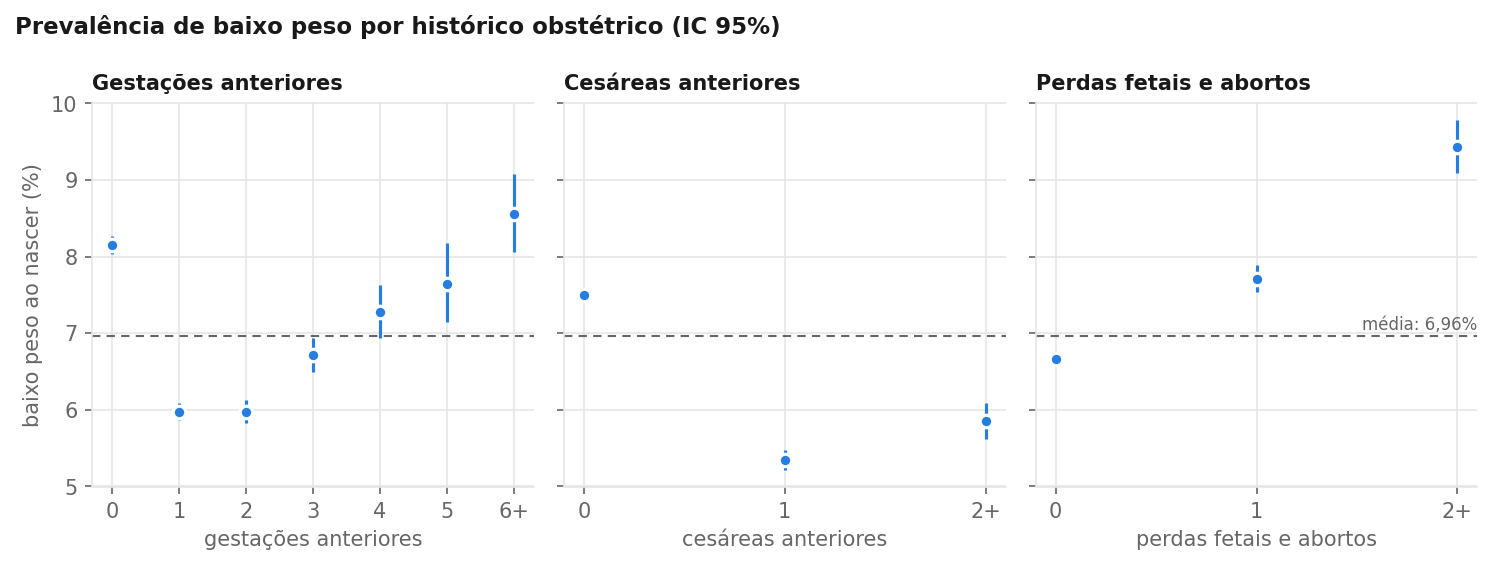
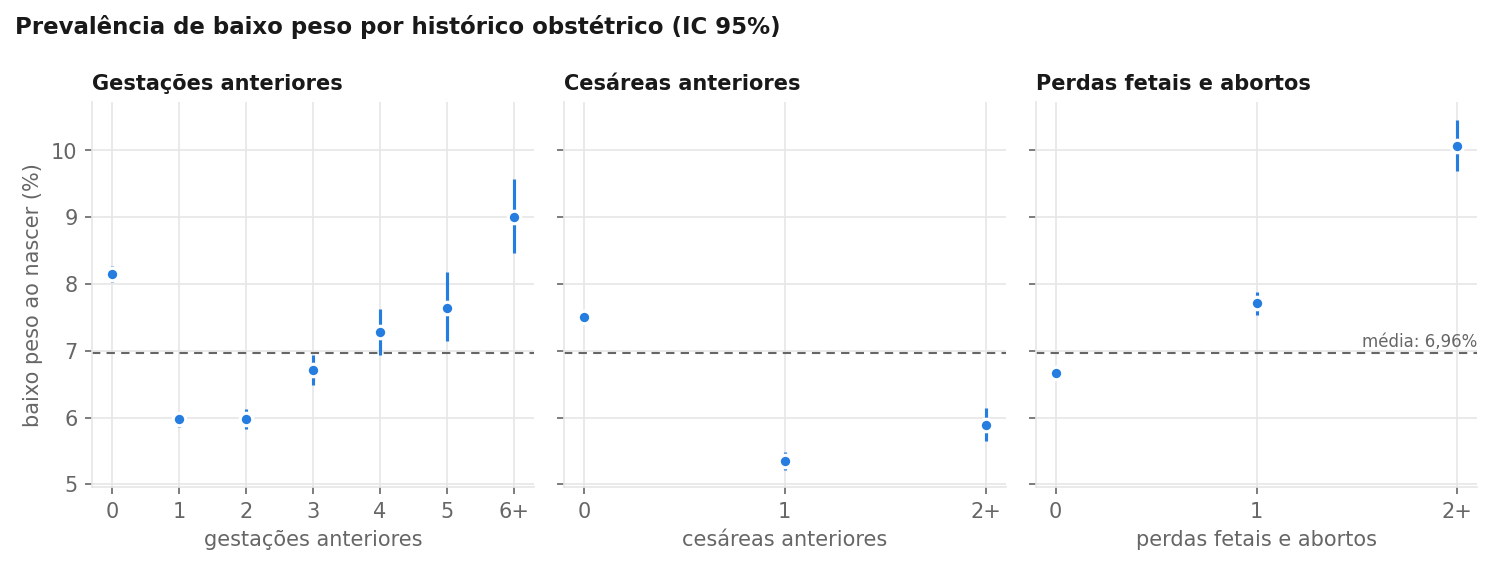
[G01] fix: preserva ausentes no teto do historico e unifica contagens
contagem_com_teto mandava os ausentes para a categoria 'N+' (mask com <NA>);
agora eles viram 'ignorado' e uma checagem impede a perda de ausentes. A
figura 5 e o texto foram corrigidos (6+ gestacoes: 9,00%; 2+ perdas: 10,07%).
A auditoria passa a contar a populacao sem duplicatas, como o pipeline
(585.505 / 104.917). Corrige dois arredondamentos duplos no notebook e nas
decisoes e preenche os riscos residuais.

diff --git a/grupos/grupo-01-baixo-peso-sinasc-pe/src/data/auditoria.py b/grupos/grupo-01-baixo-peso-sinasc-pe/src/data/auditoria.py
@@ -24,7 +24,7 @@ from src.data.carregar import carregar_municipios, carregar_sinasc
 from src.data.download import ler_registro
 from src.data.esquema import COLUNAS, POR_NOME, Coluna, origem
 from src.data.populacao import PESO_PLAUSIVEL, etapas_populacao, mascara_populacao, peso_numerico
-from src.data.preparar import IDADE_PLAUSIVEL, INTERNAS
+from src.data.preparar import IDADE_PLAUSIVEL, INTERNAS, remover_duplicatas
 
 DICIONARIO = RAIZ / "docs" / "dicionario-de-dados.md"
 MUNICIPIO_IGNORADO = "260000"
@@ -257,7 +257,7 @@ def tabela_populacao(df: pd.DataFrame, cfg: dict) -> pd.DataFrame:
     for nome, anos in conjuntos(cfg).items():
         no_periodo = df["ANO"].isin(anos)
         total = int(no_periodo.sum())
-        linhas.append({"conjunto": nome, "anos": rotulo_anos(anos), "etapa": "registros no período",
+        linhas.append({"conjunto": nome, "anos": rotulo_anos(anos), "etapa": "registros no período (sem duplicatas)",
                        "registros": fmt_int(total), "% do período": "100,0%", "baixo peso": "—",
                        "% baixo peso": "—"})
         for etapa, mascara in etapas:
@@ -305,15 +305,17 @@ def tabela_recorte(df: pd.DataFrame, cfg: dict) -> pd.DataFrame:
     return pd.DataFrame(linhas)
 
 
-def resumo_alvo(df: pd.DataFrame, cfg: dict) -> str:
+def resumo_alvo(df: pd.DataFrame, limpo: pd.DataFrame, cfg: dict) -> str:
+    """Periodo auditado sobre os registros brutos; populacao sobre os registros sem duplicatas."""
     limiar = cfg["dados"]["limiar_peso_g"]
     peso = peso_numerico(df)
     plausivel = peso.between(*PESO_PLAUSIVEL)
     positivos = int((plausivel & (peso < limiar)).sum())
     n = int(plausivel.sum())
     anos = sorted(df["ANO"].unique())
-    dev = mascara_populacao(df, cfg) & df["ANO"].isin(cfg["dados"]["anos_desenvolvimento"])
-    n_dev, pos_dev = int(dev.sum()), int((dev & (peso < limiar)).sum())
+    peso_limpo = peso_numerico(limpo)
+    dev = mascara_populacao(limpo, cfg) & limpo["ANO"].isin(cfg["dados"]["anos_desenvolvimento"])
+    n_dev, pos_dev = int(dev.sum()), int((dev & (peso_limpo < limiar)).sum())
     baseline = f"{pos_dev / n_dev:.3f}".replace(".", ",")
     return (f"- **Período auditado:** {anos[0]}–{anos[-1]} ({len(anos)} anos), "
             f"{fmt_int(len(df))} registros brutos e {fmt_int(n)} com peso plausível, dos quais "
@@ -337,19 +339,22 @@ def main(argv: list[str] | None = None) -> int:
     df = carregar_sinasc(cfg, usar_cache=not args.sem_cache)
     municipios = carregar_municipios(cfg)
     print(f"[auditoria] {len(df):,} registros, {df.shape[1] - 1} colunas")
+    # Descricao dos dados brutos usa `df`; tudo que fala da populacao do modelo usa os
+    # registros sem duplicatas, como o pipeline -- assim os numeros sao os mesmos.
+    limpo = remover_duplicatas(df)
 
     tabelas = {
         "arquivos": tabela_arquivos(df, cfg),
         "resumo-anos": tabela_resumo_anos(df, cfg),
         "variaveis": tabela_variaveis(df),
         "qualidade": tabela_qualidade(df, cfg, municipios),
-        "subgrupos": tabela_subgrupos(df, cfg, municipios),
-        "populacao": tabela_populacao(df, cfg),
-        "excluidos": tabela_excluidos(df, cfg),
-        "recorte": tabela_recorte(df, cfg),
+        "subgrupos": tabela_subgrupos(limpo, cfg, municipios),
+        "populacao": tabela_populacao(limpo, cfg),
+        "excluidos": tabela_excluidos(limpo, cfg),
+        "recorte": tabela_recorte(limpo, cfg),
     }
     blocos = {nome: tabela_md(tabela) for nome, tabela in tabelas.items()}
-    blocos["alvo"] = resumo_alvo(df, cfg)
+    blocos["alvo"] = resumo_alvo(df, limpo, cfg)
     atualizar_blocos(DICIONARIO, blocos)  # primeiro: se faltar marcador, nada e gravado
     pasta = RAIZ / cfg["saidas"]["tabelas"]
     pasta.mkdir(parents=True, exist_ok=True)

diff --git a/grupos/grupo-01-baixo-peso-sinasc-pe/src/features/construcao.py b/grupos/grupo-01-baixo-peso-sinasc-pe/src/features/construcao.py
@@ -26,7 +26,11 @@ def contagem_com_teto(valores: pd.Series, teto: int) -> pd.Series:
     """0, 1, ..., teto-1 e 'teto+' como texto; ausente continua ausente."""
     numeros = pd.to_numeric(valores, errors="coerce")
     rotulo = numeros.clip(upper=teto).astype("Int64").astype("string")
-    return rotulo.mask(numeros >= teto, f"{teto}+")
+    # fillna(False): sem isso, ausente >= teto da <NA> e o mask o trataria como "teto+"
+    rotulo = rotulo.mask((numeros >= teto).fillna(False), f"{teto}+")
+    if int(rotulo.isna().sum()) != int(numeros.isna().sum()):
+        raise ValueError("contagem_com_teto alterou a quantidade de ausentes")
+    return rotulo
 
 
 def grupo_cbo(codigo: pd.Series) -> pd.Series:

diff --git a/grupos/grupo-01-baixo-peso-sinasc-pe/docs/decisoes-tecnicas.md b/grupos/grupo-01-baixo-peso-sinasc-pe/docs/decisoes-tecnicas.md
@@ -40,9 +40,9 @@ Decisões tomadas na E2. As evidências estão em `docs/dicionario-de-dados.md` 
 | Decisão | Alternativa rejeitada | Evidência |
 | ------- | --------------------- | --------- |
 | Desenvolvimento em 2019–2023 e teste temporal em 2024, usado uma única vez | holdout aleatório de 20% sobre todos os anos | a prevalência sobe de cerca de 7,8% (2015–2020) para cerca de 8,7% (2022–2024) (`tabela-auditoria-resumo-anos.csv`). O teste temporal reproduz o uso real: treinar com o passado e prever o ano seguinte |
-| Excluir 2015–2018 da modelagem (só auditoria e EDA) | usar os 10 anos | anos mais distantes do patamar atual de prevalência; a população de desenvolvimento já tem 585.522 registros (`tabela-auditoria-recorte.csv`) |
+| Excluir 2015–2018 da modelagem (só auditoria e EDA) | usar os 10 anos | anos mais distantes do patamar atual de prevalência; a população de desenvolvimento já tem 585.505 registros (`tabela-auditoria-recorte.csv`) |
 | População = gestação única com mês de início do pré-natal registrado | modelar todos os nascidos vivos | é quem passa pela decisão na captação (`src/data/populacao.py`; fluxo em `tabela-auditoria-populacao.csv`) |
-| Excluir gestações múltiplas | mantê-las e agrupar os gêmeos com `GroupKFold` | 59,38% de baixo peso contra 7,14% na gestação única (`tabela-auditoria-excluidos.csv`): o modelo ganharia desempenho com um risco que a equipe já reconhece, já que a gestação gemelar é de alto risco por definição (Ministério da Saúde, *Manual de gestação de alto risco*, 2022, cap. 17). Os registros do mesmo parto vazariam entre folds, e não há identificador da mãe para agrupar |
+| Excluir gestações múltiplas | mantê-las e agrupar os gêmeos com `GroupKFold` | 59,39% de baixo peso contra 7,14% na gestação única (`tabela-auditoria-excluidos.csv`): o modelo ganharia desempenho com um risco que a equipe já reconhece, já que a gestação gemelar é de alto risco por definição (Ministério da Saúde, *Manual de gestação de alto risco*, 2022, cap. 17). Os registros do mesmo parto vazariam entre folds, e não há identificador da mãe para agrupar |
 | Excluir registros sem mês de início do pré-natal | imputar `MESPRENAT` | prevalência de 11,72% no grupo (`tabela-auditoria-excluidos.csv`): o “ausente” carrega sinal, mas não existe na captação, em que o mês é conhecido |
 | Manter 2020 e 2021 (pandemia) no desenvolvimento | excluir os dois anos | prevalência e completude sem quebra nesses anos (`tabela-auditoria-resumo-anos.csv`); o desempenho por ano será comparado na E5 |
 | Só atributos conhecidos na captação da gestante | usar todas as colunas da DN | regra de vazamento; colunas excluídas e motivo de cada uma em `src/data/esquema.py` e na tabela de variáveis do dicionário |
@@ -63,10 +63,10 @@ As figuras e os dados de cada uma estão em `reports/figures/figura-eda-*.png` e
 | Limpeza por registro (duplicatas, população, alvo, códigos “ignorado” e valores implausíveis → ausente) antes do split; tudo que aprende dos dados fica no `Pipeline` | limpar e imputar no conjunto inteiro | as regras de `src/data/preparar.py` não calculam nenhuma estatística, então não vazam; imputação, splines e one-hot são ajustados só no treino de cada fold (`src/features/preprocessamento.py`) |
 | Split temporal gravado na etapa `dados`: `desenvolvimento.pkl` (2019–2023) e `teste.pkl` (2024) | separar o teste só na modelagem | o teste fica isolado desde a preparação, e a etapa `features` falha se aparecer um ano fora do desenvolvimento |
 | Checagem automática de vazamento no pipeline | conferir a lista de colunas à mão | `conferir_vazamento` em `src/pipeline.py` falha se uma coluna descartada, de filtro, o alvo ou o ano chegar ao modelo |
-| Não descartar registros com atributo ausente | remover linhas incompletas | menos de 4% de ausentes, mas com prevalência menor (5,0%–5,8% contra 6,96%): descartar tiraria um grupo de risco diferente (figura 2) |
+| Não descartar registros com atributo ausente | remover linhas incompletas | menos de 4% de ausentes, mas com prevalência menor (5,0%–5,8% contra 6,96%; a exceção é a idade, com só 12 ausentes): descartar tiraria um grupo de risco diferente (figura 2) |
 | Categórico ausente → categoria própria `ignorado` | imputar a moda | “ignorado” tem a menor prevalência em escolaridade, raça/cor e ocupação (figuras 2 e 6); a moda o misturaria a um grupo de risco diferente |
 | Idade da mãe com splines (5 nós, grau 3) | idade linear ou em faixas fixas | curva em U: 15,19% aos 13 anos, 5,88% aos 26, 8,52% aos 40 (figura 3) |
-| `MESPRENAT` como categoria | mês como número | sobe de 5,43% (mês 1) para 8,66% (mês 5) e cai para 3,88% (mês 9), sem relação linear (figura 4) |
+| `MESPRENAT` como categoria | mês como número | sobe de 5,43% (mês 1) para 8,66% (mês 5) e cai para 3,87% (mês 9), sem relação linear (figura 4) |
 | Histórico obstétrico com teto no percentil 99 e como categoria | contagens como número | relações em U (primeira gestação 8,15%, uma ou duas anteriores cerca de 5,97%) e caudas raras (figura 5) |
 | Ocupação pelo grande grupo da CBO, com os códigos especiais `9999xx` separados | 1º dígito para todos os códigos | o 1º dígito juntaria os códigos especiais ao grande grupo 9 (manutenção); eles têm prevalências entre 6,47% e 9,59% (figura 6) |
 | Desbalanceamento tratado no modelo (pesos de classe ou limiar), sem reamostrar | sobreamostragem (SMOTE ou similar) | cerca de 7% de positivos e 585.505 registros (figura 1): há casos positivos suficientes, e a reamostragem distorceria a calibração das probabilidades. A escolha final fica para a E4 |
@@ -82,5 +82,20 @@ As figuras e os dados de cada uma estão em `reports/figures/figura-eda-*.png` e
 
 ## 6. Riscos residuais
 
-- preencher (o que ainda pode invalidar o resultado)
-- preencher (o que faríamos com mais tempo/dados)
+**O que ainda pode invalidar o resultado** (atualizado a cada entrega):
+
+- **Mesma mãe em anos diferentes.** O SINASC não tem identificador da mãe, então irmãos nascidos em anos
+  diferentes podem cair em folds distintos da validação cruzada. O efeito tende a ser pequeno, porque cada
+  mãe tem poucos partos no período, mas não dá para usar `GroupKFold` (RQ-PRE-03). O teste temporal em 2024
+  reduz esse risco na avaliação final, mas não o elimina.
+- **Registro retrospectivo.** As variáveis da captação foram registradas no parto. A qualidade do que se
+  declara no parto pode ser diferente do que se registraria no início do pré-natal.
+- **Mudança de distribuição.** A prevalência sobe dentro do próprio desenvolvimento (figura 1 da EDA). Um
+  modelo ajustado nos anos anteriores pode subestimar o risco em 2024.
+- **Códigos especiais de ocupação.** O significado de `999991` a `999994` não foi confirmado no dicionário
+  oficial. Eles entram como categorias, mas não podem ser interpretados no artigo.
+
+**O que faríamos com mais tempo ou dados:** vincular o SINASC ao SIM, para incluir os óbitos neonatais;
+usar dados de pré-natal da atenção primária (e-SUS APS), registrados no momento da captação, o que
+exigiria acesso autorizado, porque não são abertos em nível individual; e testar o modelo em outros
+estados do Nordeste.

diff --git a/grupos/grupo-01-baixo-peso-sinasc-pe/docs/dicionario-de-dados.md b/grupos/grupo-01-baixo-peso-sinasc-pe/docs/dicionario-de-dados.md
@@ -144,7 +144,7 @@ dentro da população.
 
 <!-- auditoria:alvo:inicio -->
 - **Período auditado:** 2015–2024 (10 anos), 1.282.496 registros brutos e 1.281.940 com peso plausível, dos quais 102.937 com baixo peso (8,03%).
-- **População do modelo, desenvolvimento (2019–2023):** 585.522 registros, 40.761 com baixo peso (6,96%) e 544.761 sem (93,04%). Razão de desbalanceamento ≈ 1:13. PR-AUC do baseline (prevalência) ≈ 0,070.
+- **População do modelo, desenvolvimento (2019–2023):** 585.505 registros, 40.760 com baixo peso (6,96%) e 544.745 sem (93,04%). Razão de desbalanceamento ≈ 1:13. PR-AUC do baseline (prevalência) ≈ 0,070.
 <!-- auditoria:alvo:fim -->
 
 - **Por que não é trivial:**
@@ -230,14 +230,14 @@ aplicados nesta ordem:
 <!-- auditoria:populacao:inicio -->
 | conjunto | anos | etapa | registros | % do período | baixo peso | % baixo peso |
 | --- | --- | --- | --- | --- | --- | --- |
-| desenvolvimento (treino + CV) | 2019–2023 | registros no período | 621.663 | 100,0% | — | — |
-| desenvolvimento (treino + CV) | 2019–2023 | + peso plausível (300–6.500 g) | 621.404 | 100,0% | 50.765 | 8,17% |
-| desenvolvimento (treino + CV) | 2019–2023 | + gestação única | 608.642 | 97,9% | 43.471 | 7,14% |
-| desenvolvimento (treino + CV) | 2019–2023 | + mês de início do pré-natal registrado (01–09) | 585.522 | 94,2% | 40.761 | 6,96% |
-| teste temporal (uso único) | 2024 | registros no período | 110.827 | 100,0% | — | — |
-| teste temporal (uso único) | 2024 | + peso plausível (300–6.500 g) | 110.759 | 99,9% | 9.643 | 8,71% |
-| teste temporal (uso único) | 2024 | + gestação única | 108.343 | 97,8% | 8.231 | 7,60% |
-| teste temporal (uso único) | 2024 | + mês de início do pré-natal registrado (01–09) | 104.919 | 94,7% | 7.732 | 7,37% |
+| desenvolvimento (treino + CV) | 2019–2023 | registros no período (sem duplicatas) | 621.645 | 100,0% | — | — |
+| desenvolvimento (treino + CV) | 2019–2023 | + peso plausível (300–6.500 g) | 621.386 | 100,0% | 50.764 | 8,17% |
+| desenvolvimento (treino + CV) | 2019–2023 | + gestação única | 608.625 | 97,9% | 43.470 | 7,14% |
+| desenvolvimento (treino + CV) | 2019–2023 | + mês de início do pré-natal registrado (01–09) | 585.505 | 94,2% | 40.760 | 6,96% |
+| teste temporal (uso único) | 2024 | registros no período (sem duplicatas) | 110.824 | 100,0% | — | — |
+| teste temporal (uso único) | 2024 | + peso plausível (300–6.500 g) | 110.756 | 99,9% | 9.643 | 8,71% |
+| teste temporal (uso único) | 2024 | + gestação única | 108.341 | 97,8% | 8.231 | 7,60% |
+| teste temporal (uso único) | 2024 | + mês de início do pré-natal registrado (01–09) | 104.917 | 94,7% | 7.732 | 7,37% |
 <!-- auditoria:populacao:fim -->
 
 Prevalência nos grupos retirados (desenvolvimento, só peso plausível):
@@ -245,10 +245,10 @@ Prevalência nos grupos retirados (desenvolvimento, só peso plausível):
 <!-- auditoria:excluidos:inicio -->
 | grupo | registros | % do desenvolvimento | baixo peso | % baixo peso |
 | --- | --- | --- | --- | --- |
-| gestação múltipla (GRAVIDEZ 2 ou 3) | 12.209 | 2,0% | 7.250 | 59,38% |
+| gestação múltipla (GRAVIDEZ 2 ou 3) | 12.208 | 2,0% | 7.250 | 59,39% |
 | tipo de gravidez ausente ou ignorado | 553 | 0,1% | 44 | 7,96% |
 | gestação única sem mês de início do pré-natal | 23.120 | 3,7% | 2.710 | 11,72% |
-| população do modelo | 585.522 | 94,2% | 40.761 | 6,96% |
+| população do modelo | 585.505 | 94,2% | 40.760 | 6,96% |
 <!-- auditoria:excluidos:fim -->
 
 **Por que cada grupo sai:**
@@ -273,8 +273,8 @@ Prevalência nos grupos retirados (desenvolvimento, só peso plausível):
 <!-- auditoria:recorte:inicio -->
 | conjunto | anos | registros na população | baixo peso | % baixo peso |
 | --- | --- | --- | --- | --- |
-| desenvolvimento (treino + CV) | 2019–2023 | 585.522 | 40.761 | 6,96% |
-| teste temporal (uso único) | 2024 | 104.919 | 7.732 | 7,37% |
+| desenvolvimento (treino + CV) | 2019–2023 | 585.505 | 40.760 | 6,96% |
+| teste temporal (uso único) | 2024 | 104.917 | 7.732 | 7,37% |
 <!-- auditoria:recorte:fim -->
 
 ## 7. Licença
@@ -308,22 +308,22 @@ publicados.
 <!-- auditoria:subgrupos:inicio -->
 | subgrupo | categoria | registros | % da base | baixo peso | % baixo peso |
 | --- | --- | --- | --- | --- | --- |
-| raça/cor da mãe | parda | 426.214 | 72,8% | 29.535 | 6,93% |
-| raça/cor da mãe | branca | 110.534 | 18,9% | 7.471 | 6,76% |
-| raça/cor da mãe | preta | 34.986 | 6,0% | 2.921 | 8,35% |
+| raça/cor da mãe | parda | 426.204 | 72,8% | 29.534 | 6,93% |
+| raça/cor da mãe | branca | 110.532 | 18,9% | 7.471 | 6,76% |
+| raça/cor da mãe | preta | 34.982 | 6,0% | 2.921 | 8,35% |
 | raça/cor da mãe | ignorada | 6.313 | 1,1% | 318 | 5,04% |
-| raça/cor da mãe | indígena | 5.775 | 1,0% | 394 | 6,82% |
+| raça/cor da mãe | indígena | 5.774 | 1,0% | 394 | 6,82% |
 | raça/cor da mãe | amarela | 1.700 | 0,3% | 122 | 7,18% |
-| idade da mãe | 20–34 anos | 407.501 | 69,6% | 26.024 | 6,39% |
-| idade da mãe | até 19 anos | 92.673 | 15,8% | 7.960 | 8,59% |
-| idade da mãe | 35 anos ou mais | 85.348 | 14,6% | 6.777 | 7,94% |
-| mesorregião de residência | Metropolitana de Recife | 220.622 | 37,7% | 15.702 | 7,12% |
-| mesorregião de residência | Agreste Pernambucano | 156.469 | 26,7% | 10.599 | 6,77% |
-| mesorregião de residência | Mata Pernambucana | 81.850 | 14,0% | 5.249 | 6,41% |
-| mesorregião de residência | Sertão Pernambucano | 74.731 | 12,8% | 5.410 | 7,24% |
-| mesorregião de residência | São Francisco Pernambucano | 51.798 | 8,8% | 3.795 | 7,33% |
+| idade da mãe | 20–34 anos | 407.491 | 69,6% | 26.024 | 6,39% |
+| idade da mãe | até 19 anos | 92.670 | 15,8% | 7.959 | 8,59% |
+| idade da mãe | 35 anos ou mais | 85.344 | 14,6% | 6.777 | 7,94% |
+| mesorregião de residência | Metropolitana de Recife | 220.617 | 37,7% | 15.701 | 7,12% |
+| mesorregião de residência | Agreste Pernambucano | 156.466 | 26,7% | 10.599 | 6,77% |
+| mesorregião de residência | Mata Pernambucana | 81.849 | 14,0% | 5.249 | 6,41% |
+| mesorregião de residência | Sertão Pernambucano | 74.726 | 12,8% | 5.410 | 7,24% |
+| mesorregião de residência | São Francisco Pernambucano | 51.795 | 8,8% | 3.795 | 7,33% |
 | mesorregião de residência | ignorada | 52 | 0,0% | < 10 | — |
-| município de residência | demais municípios | 555.675 | 94,9% | 38.482 | 6,93% |
+| município de residência | demais municípios | 555.658 | 94,9% | 38.481 | 6,93% |
 | município de residência | Petrolina | 29.847 | 5,1% | 2.279 | 7,64% |
 <!-- auditoria:subgrupos:fim -->
 

diff --git a/grupos/grupo-01-baixo-peso-sinasc-pe/docs/proposta.md b/grupos/grupo-01-baixo-peso-sinasc-pe/docs/proposta.md
@@ -51,8 +51,8 @@ hipótese é rejeitada.
 
 - **Fonte:** SINASC, Ministério da Saúde/DATASUS (`DNPE{ano}.dbc`), com dicionário oficial. Licença CC BY-ND
   3.0 do portal; a base não é redistribuída. Análise na E2.
-- **Recorte:** Pernambuco. Desenvolvimento em 2019–2023 (585.522 registros na população) e **teste temporal
-  em 2024** (104.919), usado uma única vez no final.
+- **Recorte:** Pernambuco. Desenvolvimento em 2019–2023 (585.505 registros na população) e **teste temporal
+  em 2024** (104.917), usado uma única vez no final.
 - **LGPD:** a base é pública e anonimizada. Datas, hora, estabelecimento e naturalidade são removidos.
 - **Plano B:** acesso pelo OpenDataSUS se o FTP falhar; tema reserva: hospitalização por dengue (SINAN, ODS 3.3).
 

diff --git a/grupos/grupo-01-baixo-peso-sinasc-pe/README.md b/grupos/grupo-01-baixo-peso-sinasc-pe/README.md
@@ -63,8 +63,8 @@ Proposta completa: [`docs/proposta.md`](docs/proposta.md).
 - **Volume:** 1.282.496 registros × 61 colunas (PE, 2015–2024).
 - **População do modelo:** gestações únicas com mês de início do pré-natal
   registrado, que é quem passa pela captação.
-- **Recorte:** desenvolvimento em 2019–2023 (585.522 registros na população) e
-  teste temporal em 2024 (104.919), usado uma única vez no final.
+- **Recorte:** desenvolvimento em 2019–2023 (585.505 registros na população) e
+  teste temporal em 2024 (104.917), usado uma única vez no final.
 - **Alvo:** `baixo_peso = 1` se `PESO < 2500` g (6,96% no desenvolvimento).
 - Auditoria completa, gerada por script, em
   [`docs/dicionario-de-dados.md`](docs/dicionario-de-dados.md).
